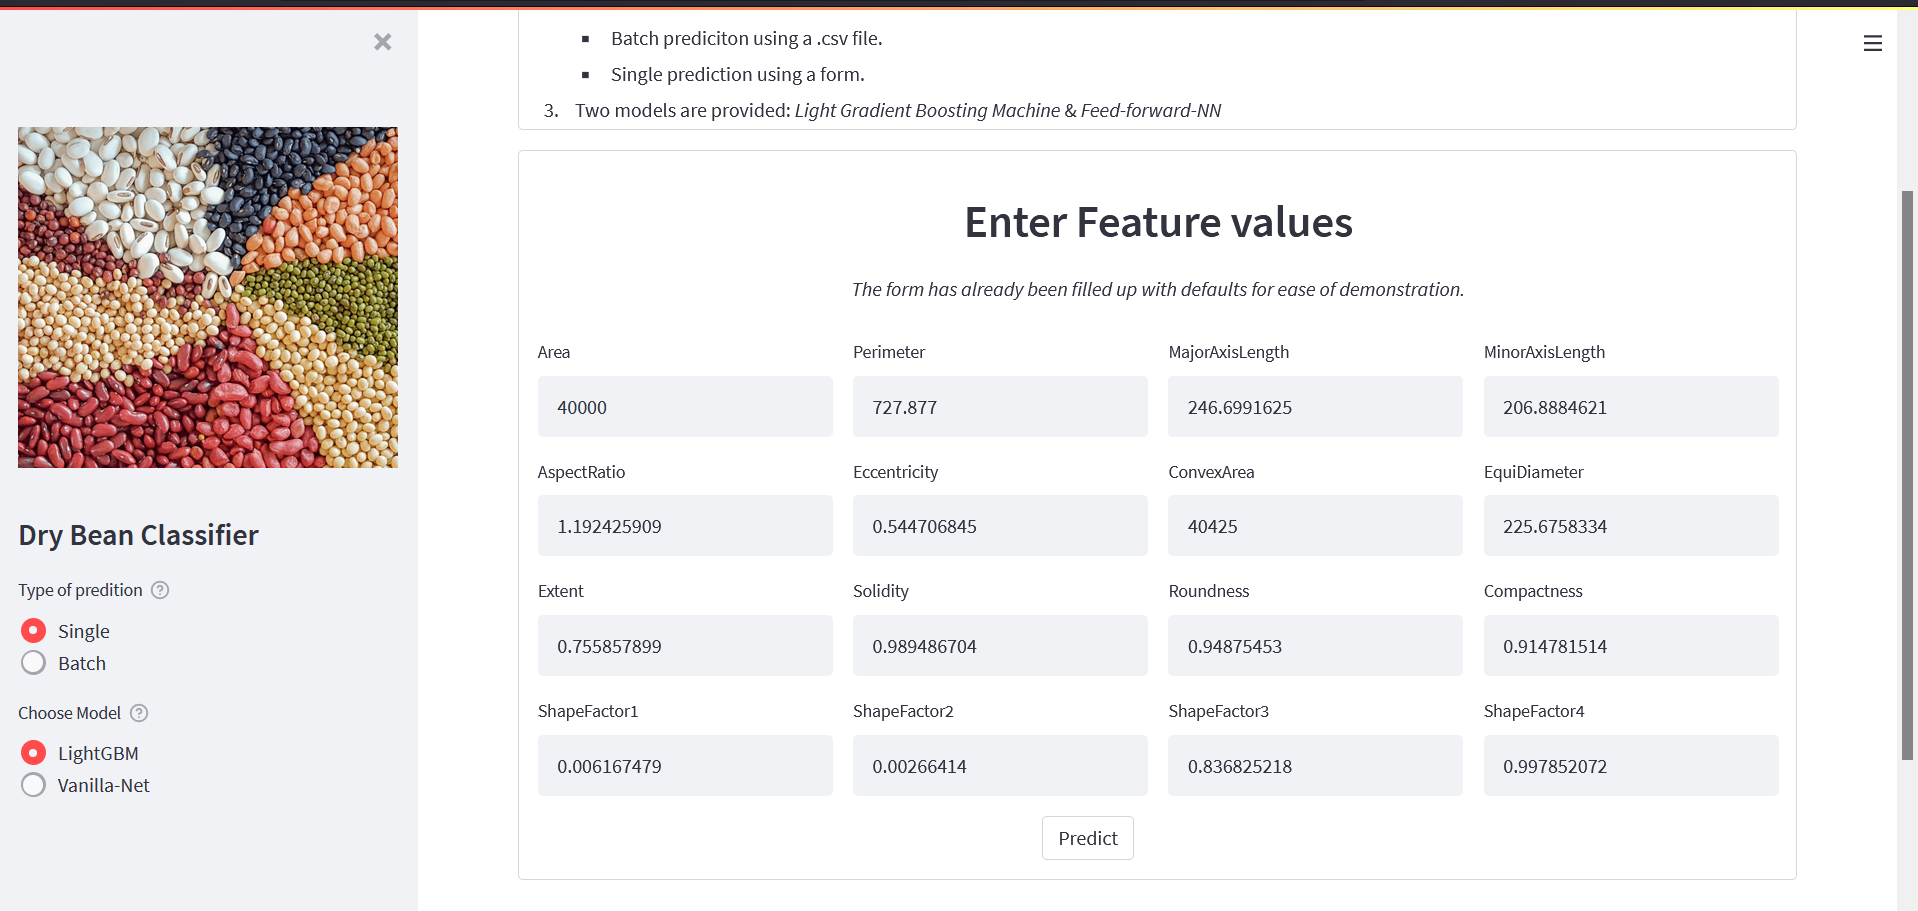
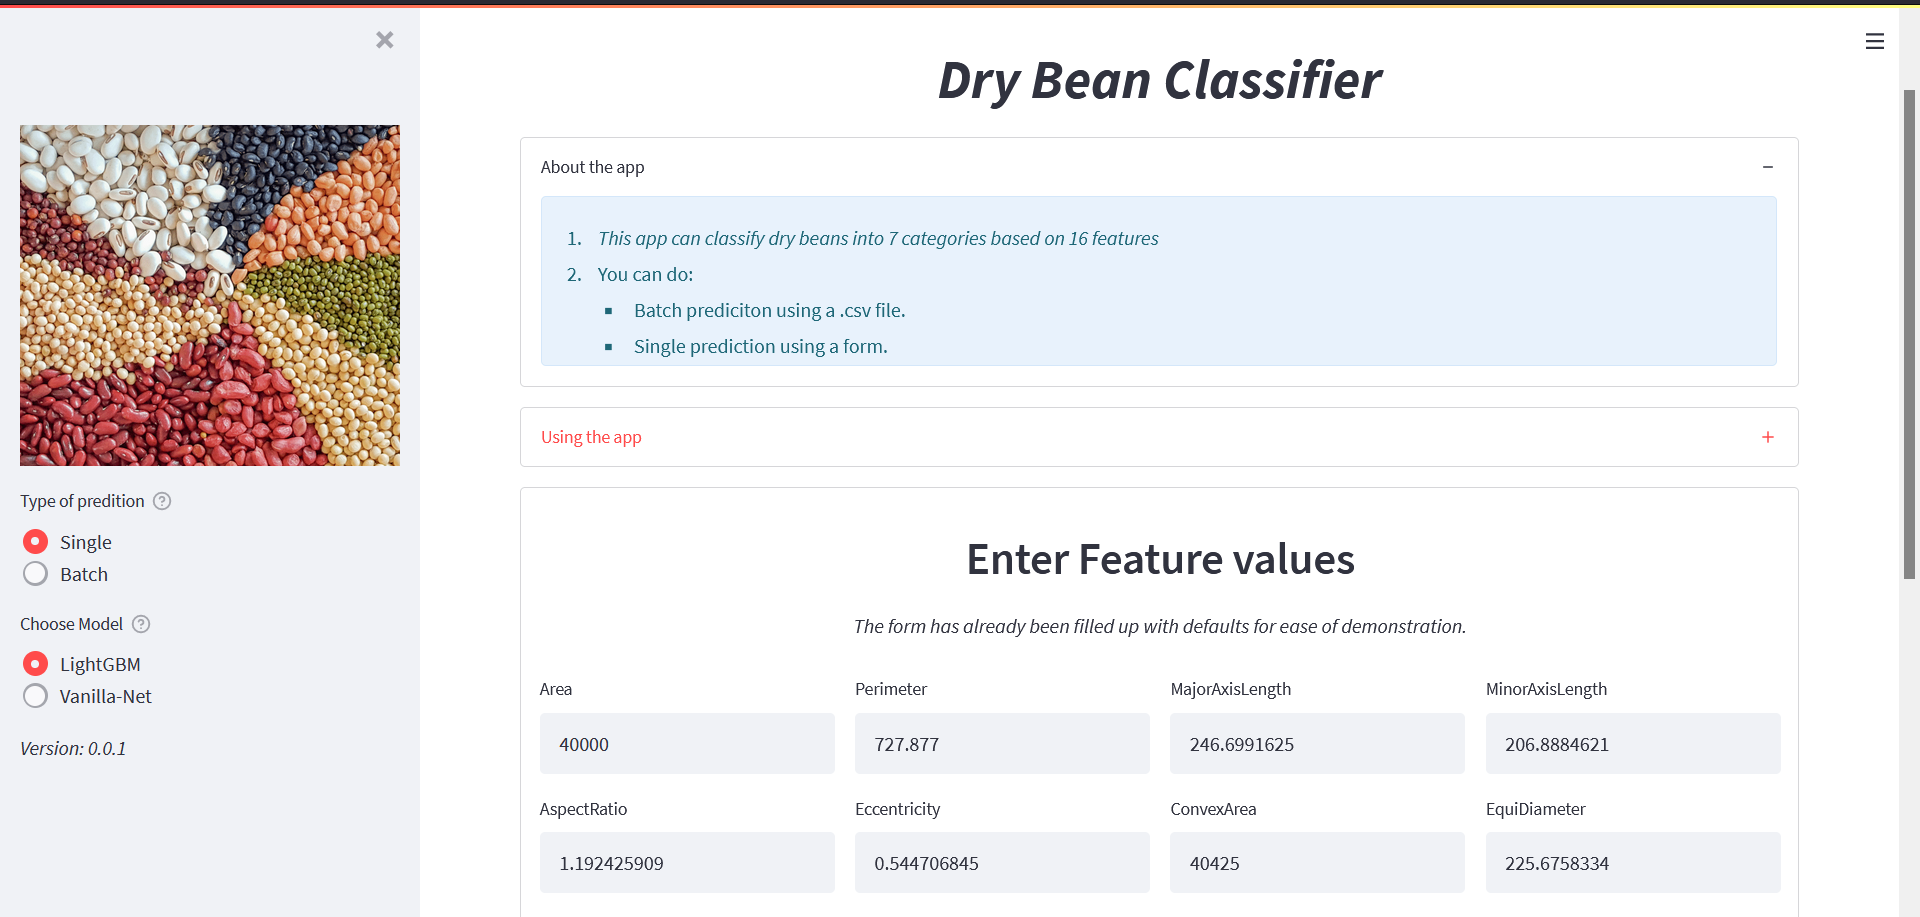
UI changes, Updates to README

diff --git a/app.py b/app.py
@@ -6,10 +6,7 @@ import pandas as pd
 import numpy as np
 import time
 
-st.set_page_config(
-    page_title="Dry Bean app",
-    page_icon=":seedling:",
-)
+st.set_page_config(page_title="Dry Bean app", page_icon=":seedling:", layout="wide")
 
 
 idx2class = {
@@ -85,6 +82,46 @@ def predict(feats, model):
     return pred_df
 
 
+def batch_pred(file):
+    pred_df = pd.DataFrame()
+
+    df = pd.read_csv(file)
+
+    with st.expander("Check your uploaded csv"):
+        st.dataframe(df)
+
+    r5 = st.columns(5)
+    btn = r5[2].button("Predict")
+
+    if btn:
+        if model_type == "Vanilla-Net":
+            try:
+                pred_df = pred_NN(X=df.values)
+            except:
+                print("Retrying!")
+            finally:
+                pred_df = pred_NN(X=df.values)
+
+            st.dataframe(pred_df)
+        else:
+            try:
+                model = joblib.load("./ML_models/Tuned_LightGBM_without_trans.model")
+            except:
+                print("Reloading model")
+            finally:
+                model = joblib.load("./ML_models/Tuned_LightGBM_without_trans.model")
+            pred_df = predict(feats=df.values, model=model)
+
+            st.dataframe(pred_df)
+    if len(pred_df) != 0:
+        csv = pred_df.to_csv(index=False)
+        st.download_button(
+            label="Download predictions",
+            data=csv,
+            file_name="preds.csv",
+        )
+
+
 # ----------------------------------------- UI ---------------------------------------------
 
 # Sidebars
@@ -108,13 +145,24 @@ with st.expander(label="About the app", expanded=True):
         2. You can do:
             - Batch prediciton using a .csv file. 
             - Single prediction using a form. 
-        3. Two models are provided: *Light Gradient Boosting Machine* & *Feed-forward-NN*
         """
     )
 
+with st.expander(label="Using the app"):
+    st.write(
+        """
+        1. Choose the type of prediction form the sidebar: Single or Batch
+            - Batch prediciton is done using a .csv file or just paste the url to a .csv file. 
+            - Single prediction is done using a form. 
+        2. Choose the model: *Light Gradient Boosting Machine* or *Feed-forward-NN* from the sidebar
+        3. Click on predict
+        """
+    )
+st.sidebar.image("images/Beans.png")
+
 
 # Type of predicition
-pred_type = st.selectbox(
+pred_type = st.sidebar.radio(
     "Type of predition",
     options=["Single", "Batch"],
     index=0,
@@ -122,17 +170,17 @@ pred_type = st.selectbox(
 )
 
 # Choose model
-model_type = st.selectbox(
+model_type = st.sidebar.radio(
     "Choose Model",
     options=["LightGBM", "Vanilla-Net"],
     index=0,
     help="Currently we have two models: {Light gradient boosting & Feed-forward-NN}",
 )
 
-pred_df = pd.DataFrame()
 
 # Single prediction done using a form
 model = None
+pred_df = pd.DataFrame()
 
 if pred_type == "Single":
 
@@ -274,7 +322,7 @@ if pred_type == "Single":
 
 else:
 
-    select = st.selectbox(
+    select = st.sidebar.radio(
         """
         Upload CSV or paste a URL
         """,
@@ -282,11 +330,11 @@ else:
         index=0,
     )
 
+    url = "https://feat-files.s3.us-east-2.amazonaws.com/full_feats_test_tiny.csv"
+
     if select == "Upload-CSV":
 
         file_uploader = st.file_uploader("")
-
-        url = "https://feat-files.s3.us-east-2.amazonaws.com/full_feats_test_tiny.csv"
 
         if file_uploader is None:
             st.info(
@@ -295,90 +343,21 @@ else:
                 """
             )
         else:
-            df = pd.read_csv(file_uploader)
-
-            with st.expander("Check your uploaded csv"):
-                st.dataframe(df)
-
-            r5 = st.columns(5)
-            btn = r5[2].button("Predict")
-
-            if btn:
-                if model_type == "Vanilla-Net":
-                    try:
-                        pred_df = pred_NN(X=df.values)
-                    except:
-                        print("Retrying!")
-                    finally:
-                        pred_df = pred_NN(X=df.values)
-
-                    st.dataframe(pred_df)
-                else:
-                    try:
-                        model = joblib.load(
-                            "./ML_models/Tuned_LightGBM_without_trans.model"
-                        )
-                    except:
-                        print("Reloading model")
-                    finally:
-                        model = joblib.load(
-                            "./ML_models/Tuned_LightGBM_without_trans.model"
-                        )
-                    pred_df = predict(feats=df.values, model=model)
-
-                    st.dataframe(pred_df)
-            if len(pred_df) != 0:
-                csv = pred_df.to_csv(index=False)
-                st.download_button(
-                    label="Download predictions",
-                    data=csv,
-                    file_name="preds.csv",
-                )
+            batch_pred(file_uploader)
 
     else:
         url_input = st.text_input(
             "Paste .csv file URL",
-            value="https://feat-files.s3.us-east-2.amazonaws.com/full_feats_test_tiny.csv",
+            placeholder="Paste URL here....",
         )
 
-        if url_input is not None:
+        if url_input:
+            batch_pred(url_input)
+        else:
+            st.info(
+                f"""
+                👆 Sample url: {url}   
+                """
+            )
 
-            df = pd.read_csv(url_input)
-
-            with st.expander("Check your uploaded csv"):
-                st.dataframe(df)
-
-            r5 = st.columns(5)
-            btn = r5[2].button("Predict")
-
-            if btn:
-                if model_type == "Vanilla-Net":
-                    try:
-                        pred_df = pred_NN(X=df.values)
-                    except:
-                        print("Retrying!")
-                    finally:
-                        pred_df = pred_NN(X=df.values)
-
-                    st.dataframe(pred_df)
-                else:
-                    try:
-                        model = joblib.load(
-                            "./ML_models/Tuned_LightGBM_without_trans.model"
-                        )
-                    except:
-                        print("Reloading model")
-                    finally:
-                        model = joblib.load(
-                            "./ML_models/Tuned_LightGBM_without_trans.model"
-                        )
-                    pred_df = predict(feats=df.values, model=model)
-
-                    st.dataframe(pred_df)
-            if len(pred_df) != 0:
-                csv = pred_df.to_csv(index=False)
-                st.download_button(
-                    label="Download predictions",
-                    data=csv,
-                    file_name="preds.csv",
-                )
+st.sidebar.write("*Version: 0.0.1*")
